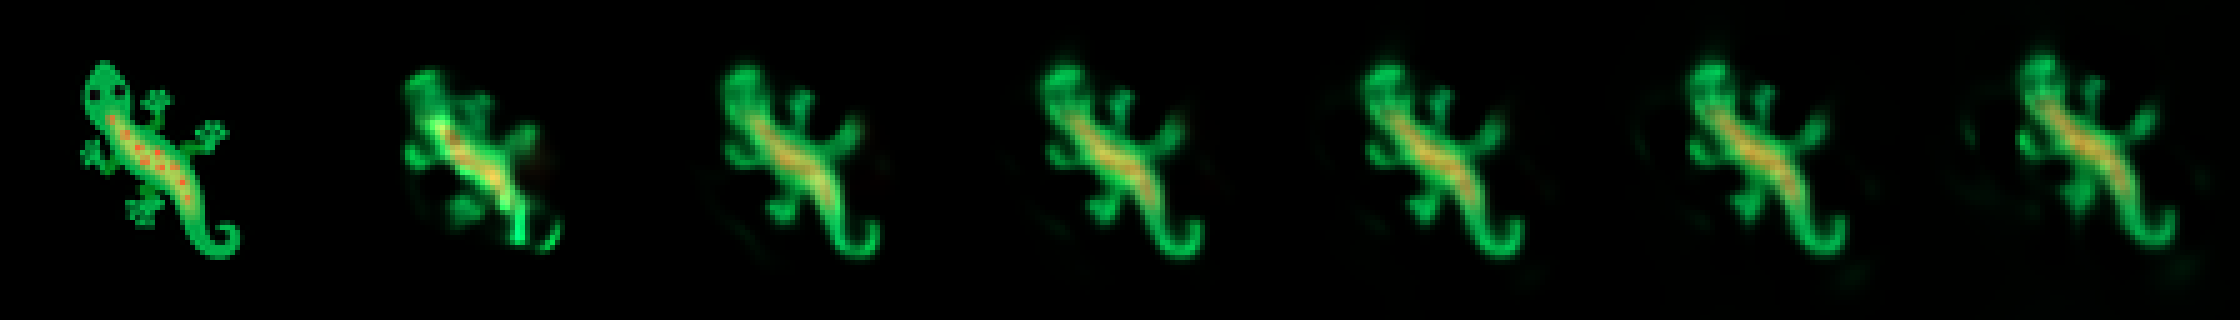
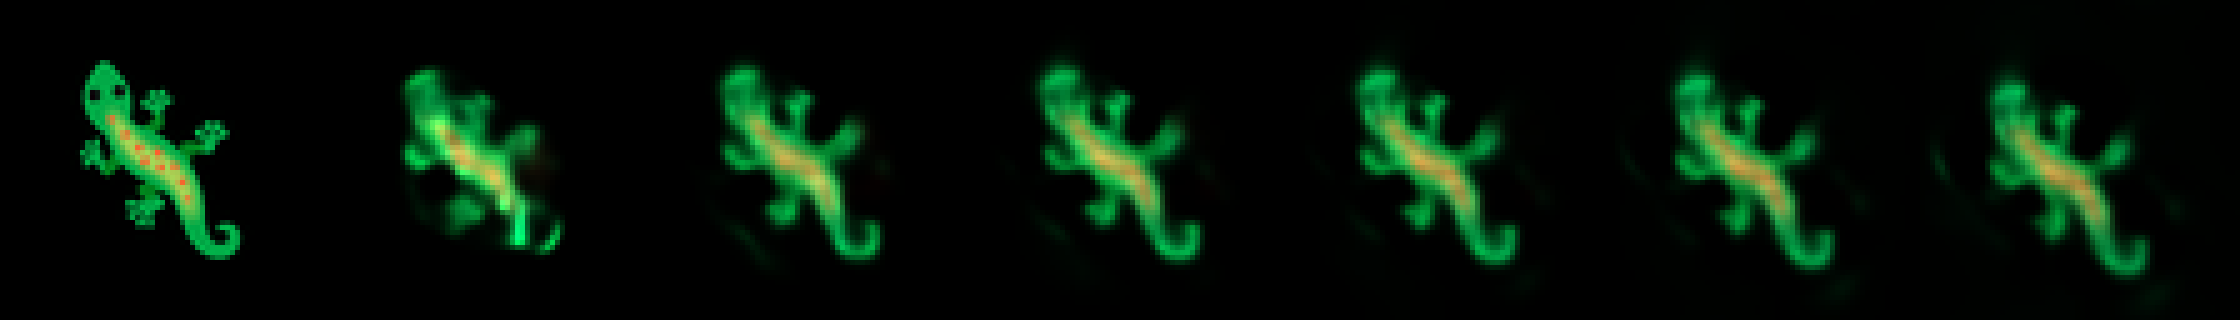
Retire the oldest pooled state, not the worst
Pool age plateaued at ~325 of a 1024 cap and the far horizons would not come
down, and the reseeding rule is why. Growing NCA retires the worst state in a
batch, which stops a pool filling with blown-up ones. Here it quietly defeats
the thing being trained for: a lizard that has drifted by step 400 IS the
worst state in the batch, so it was deleted rather than repaired, and the
model was never once asked to fix a decayed lizard. Persistence was being
selected against.

That rule earns its keep in an NCA because its update can create matter and a
state really can blow up. This update cannot -- mass is conserved exactly, so
the field is bounded no matter what -- so the protection was being paid for
without the risk it protects against.

Retiring the oldest instead lets drift survive long enough to be worth fixing.
--reseed-policy keeps the old behaviour available. The mean age is logged now
too, so whether the pool is actually aging is visible in the run rather than
inferred from stdout that a pipe was buffering.

polar3-worstreseed keeps the run that plateaued, for the comparison.

Claude-Session: https://claude.ai/code/session_01WKrMnD7YksARi9mdYUD5iv

diff --git a/train/train.py b/train/train.py
@@ -231,6 +231,13 @@ def main():
                          "shape to hold rather than merely to arrive")
     ap.add_argument("--reseed-every", type=int, default=4,
                     help="iterations between sending a pool state back to the seed")
+    ap.add_argument("--reseed-policy", default="oldest", choices=["oldest", "worst"],
+                    help="which pooled state goes back to the seed. Growing NCA "
+                         "retires the worst, to stop a pool filling with "
+                         "blown-up states; mass conservation makes that "
+                         "impossible here, and retiring the worst culls exactly "
+                         "the aged, drifting states that persistence has to be "
+                         "taught on")
     ap.add_argument("--lr", type=float, default=3e-3)
     ap.add_argument("--hidden", type=int, default=0,
                     help="rung 1: hidden width of the per-cell network; 0 keeps the matrix")
@@ -302,7 +309,7 @@ def main():
     if not os.path.exists(logp):
         with open(logp, "w", newline="") as f:
             csv.writer(f).writerow(["iter", "loss", "best", "lam", "force", "beta"]
-                                   + [f"h{h}" for h in HORIZONS] + ["secs"])
+                                   + [f"h{h}" for h in HORIZONS] + ["age", "secs"])
 
     print(f"run {a.name}: orders {orders}  C {a.channels}  grid {a.grid}  "
           f"window {a.window}  batch {a.batch}  pool {a.pool}")
@@ -341,10 +348,18 @@ def main():
         # past about two windows, so persistence is never actually asked for.
         # Reseeding every few iterations instead lets the pool grow old.
         if it % a.reseed_every == 0:
+            # Retiring the worst state looks sensible and quietly defeats the
+            # whole point: a lizard that has drifted by step 400 IS the worst
+            # state, so it gets deleted instead of repaired, and the pool's age
+            # plateaus well below its cap -- it sat at ~325 of 1024 doing this.
+            # Retiring the oldest lets drift survive long enough to be fixed.
             with torch.no_grad():
-                worst = ((batch[:, :3] - target) ** 2).mean(dim=(1, 2, 3)).argmax()
-            batch[worst] = seed
-            ages[idx[worst]] = 0
+                if a.reseed_policy == "worst":
+                    pick = ((batch[:, :3] - target) ** 2).mean(dim=(1, 2, 3)).argmax()
+                else:
+                    pick = ages[idx].argmax()
+            batch[pick] = seed
+            ages[idx[pick]] = 0
         # and retire a state once it has lived its full span, so the pool holds
         # a spread of ages rather than drifting to all-old or all-young
         stale = ages[idx] >= a.max_age
@@ -402,7 +417,8 @@ def main():
             with open(logp, "a", newline="") as fh:
                 csv.writer(fh).writerow([it, f"{loss.item():.6f}", f"{best:.6f}",
                                          f"{lam:.3f}", f"{f:.2f}", f"{b:.3f}",
-                                         *[f"{v:.6f}" for v in hz], f"{secs:.0f}"])
+                                         *[f"{v:.6f}" for v in hz],
+                                         int(ages.float().mean()), f"{secs:.0f}"])
             # a rung 1 world is not expressible as a preset: index.html's
             # FS_AFF is a matrix multiply. Write the kernels anyway -- they are
             # still legal -- and say so, rather than emitting a preset that

diff --git a/train/compare.py b/train/compare.py
@@ -47,6 +47,7 @@ def read(run):
         "rung": 1 if "_note" in cfg else 0,
         "h": [last.get(k) for k in ("h32", "h128", "h256", "h512")],
         "mins": float(last["secs"]) / 60,
+        "age": last.get("age", "-"),
     }
 
 
@@ -61,11 +62,12 @@ def main():
         return print("no runs yet")
 
     print(f"{'run':<10} {'rung':>4} {'C':>3} {'lobes':>5} {'orders':>8} {'iter':>6} "
-          f"{'best':>9}   {'h32':>8} {'h128':>8} {'h256':>8} {'h512':>8}  {'min':>5}")
+          f"{'best':>9}   {'h32':>8} {'h128':>8} {'h256':>8} {'h512':>8}  {'age':>5} {'min':>5}")
     for r in runs:
         h = "".join(f"{(float(v) if v else 0):>9.5f}" if v else f"{'-':>9}" for v in r["h"])
         print(f"{r['name']:<10} {r['rung']:>4} {r['C']:>3} {r['lobes']:>5} "
-              f"{r['orders']:>8} {r['iter']:>6} {r['best']:>9.5f}  {h}  {r['mins']:>5.0f}")
+              f"{r['orders']:>8} {r['iter']:>6} {r['best']:>9.5f}  {h}  "
+              f"{str(r['age']):>5} {r['mins']:>5.0f}")
     print("\nh<N> is the loss from the seed after N steps. Training window is 16, so a")
     print("curve rising left to right means the shape is reached and then lost.")
 
